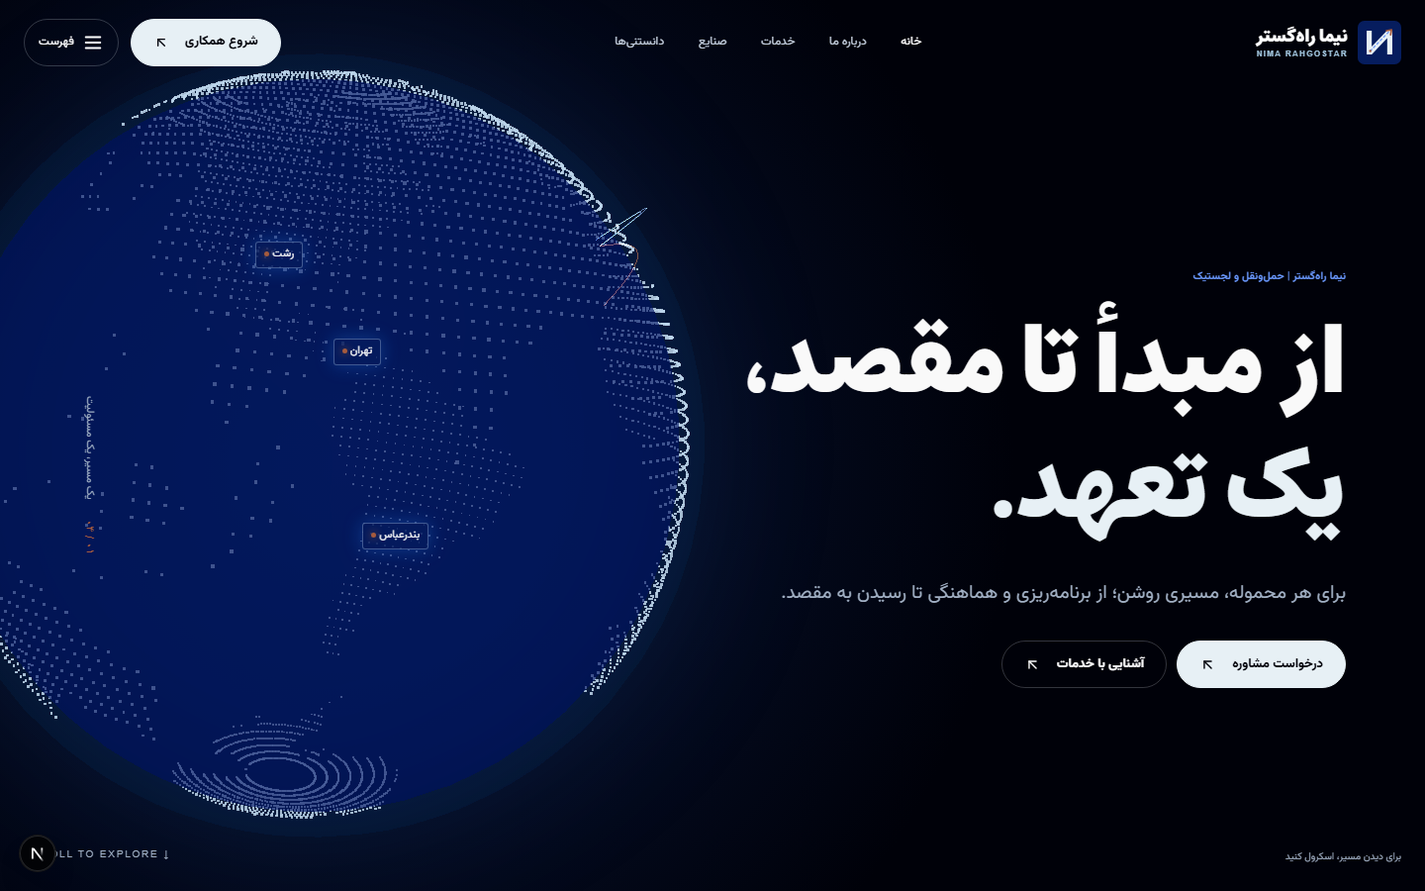
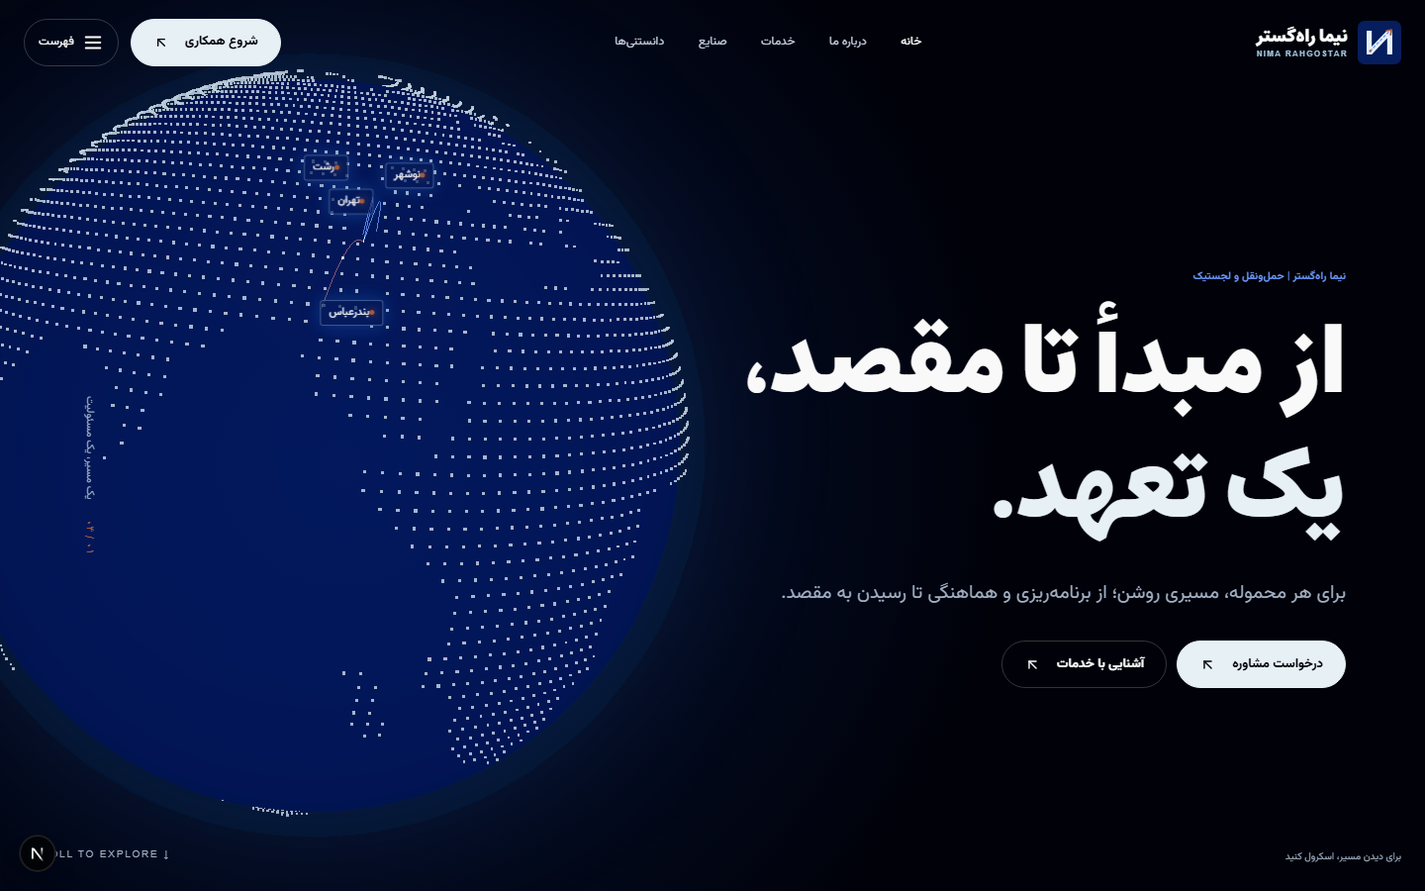
feat: project globe labels and add motion QA controls
Project city labels from globe coordinates and hide those behind the sphere. Add development-only journey progress, scene, trigger and frame-rate controls for checkpoint inspection. Verify the WebGL fallback and HUD in desktop and mobile browsers, refresh captures, and update the handoff with remaining visual gates.

diff --git a/src/components/globe/GlobeScene.tsx b/src/components/globe/GlobeScene.tsx
@@ -1,26 +1,77 @@
 "use client";
 import { Canvas, useFrame } from "@react-three/fiber";
-import { useEffect, useMemo, useRef, useState } from "react";
+import { useEffect, useMemo, useRef, useState, type RefObject } from "react";
 import { AdditiveBlending, BufferAttribute, BufferGeometry, Color, Group, Line, LineBasicMaterial, Vector3 } from "three";
 import landPoints from "@/content/globe-points.json";
 import { globeCities } from "@/content/cities";
 import styles from "./GlobeScene.module.css";
+const LABEL_OFFSETS=[[-18,-18],[30,20],[-58,-40],[42,-36]] as const;
 
-function vector(lat:number,lon:number,r:number){const a=lat*Math.PI/180,b=lon*Math.PI/180;return new Vector3(r*Math.cos(a)*Math.cos(b),r*Math.sin(a),r*Math.cos(a)*Math.sin(b))}
+function vector(lat:number,lon:number,r:number){
+  const a=lat*Math.PI/180,b=lon*Math.PI/180;
+  return new Vector3(r*Math.cos(a)*Math.cos(b),r*Math.sin(a),r*Math.cos(a)*Math.sin(b));
+}
 function DottedEarth(){
-  const points=useMemo(()=>{
-    const coords:number[]=[];const mobile=typeof window!=="undefined"&&window.innerWidth<768;
-    landPoints.forEach(([lat,lon],index)=>{if(mobile&&index%2) return;const p=vector(lat,lon,2);coords.push(p.x,p.y,p.z)});
-    const geometry=new BufferGeometry();geometry.setAttribute("position",new BufferAttribute(new Float32Array(coords),3));return geometry;
+  const geometry=useMemo(()=>{
+    const coords:number[]=[];
+    const mobile=window.innerWidth<768;
+    landPoints.forEach(([lat,lon],index)=>{if(mobile&&index%2)return;const point=vector(lat,lon,2);coords.push(point.x,point.y,point.z)});
+    const result=new BufferGeometry();result.setAttribute("position",new BufferAttribute(new Float32Array(coords),3));return result;
   },[]);
-  useEffect(()=>()=>points.dispose(),[points]);
-  return <points geometry={points}><pointsMaterial size={0.027} sizeAttenuation color="#a8c9ef" transparent opacity={0.88} depthWrite={false}/></points>
+  useEffect(()=>()=>geometry.dispose(),[geometry]);
+  return <points geometry={geometry}><pointsMaterial size={.027} sizeAttenuation color="#a8c9ef" transparent opacity={.88} depthWrite={false}/></points>;
 }
 function TradeArc({to,index}:{to:{lat:number;lon:number};index:number}){
-  const geometry=useMemo(()=>{const a=vector(35.6892,51.389,2.02),b=vector(to.lat,to.lon,2.02),coords:number[]=[];for(let i=0;i<=64;i++){const t=i/64;const p=a.clone().lerp(b,t).normalize().multiplyScalar(2.03+Math.sin(t*Math.PI)*(0.18+index*.04));coords.push(p.x,p.y,p.z)}const g=new BufferGeometry();g.setAttribute("position",new BufferAttribute(new Float32Array(coords),3));return g},[to,index]);
+  const geometry=useMemo(()=>{
+    const from=vector(35.6892,51.389,2.02),end=vector(to.lat,to.lon,2.02),coords:number[]=[];
+    for(let i=0;i<=64;i++){const t=i/64;const point=from.clone().lerp(end,t).normalize().multiplyScalar(2.03+Math.sin(t*Math.PI)*(.18+index*.04));coords.push(point.x,point.y,point.z)}
+    const result=new BufferGeometry();result.setAttribute("position",new BufferAttribute(new Float32Array(coords),3));return result;
+  },[to,index]);
   const line=useMemo(()=>new Line(geometry,new LineBasicMaterial({color:index===0?"#ad6647":"#6896fa",transparent:true,opacity:.7,blending:AdditiveBlending})),[geometry,index]);
-  useEffect(()=>()=>{geometry.dispose();(line.material as LineBasicMaterial).dispose()},[geometry,line]);return <primitive object={line}/>;
+  useEffect(()=>()=>{geometry.dispose();(line.material as LineBasicMaterial).dispose()},[geometry,line]);
+  return <primitive object={line}/>;
 }
-function GlobeObject(){const root=useRef<Group>(null);const active=useRef(true);const pointer=useRef({x:0,y:0});const angle=useRef(0);useEffect(()=>{const visibility=()=>active.current=!document.hidden;const move=(event:PointerEvent)=>{if(event.pointerType==="touch")return;pointer.current.x=(event.clientX/window.innerWidth-.5)*.1;pointer.current.y=(event.clientY/window.innerHeight-.5)*.08};document.addEventListener("visibilitychange",visibility);window.addEventListener("pointermove",move,{passive:true});return()=>{document.removeEventListener("visibilitychange",visibility);window.removeEventListener("pointermove",move)}},[]);useFrame((_,delta)=>{if(!root.current||!active.current)return;angle.current+=Math.min(delta,.05)*.055;root.current.rotation.y=angle.current+pointer.current.x;root.current.rotation.x=.16+pointer.current.y});return <group ref={root} rotation={[.16,-.1,-.1]}><mesh><sphereGeometry args={[1.96,48,32]}/><meshBasicMaterial color={new Color("#061d5e")} transparent opacity={.62}/></mesh><mesh><sphereGeometry args={[2.08,48,32]}/><meshBasicMaterial color="#28589e" transparent opacity={.09} blending={AdditiveBlending} depthWrite={false}/></mesh><DottedEarth/>{globeCities.slice(1).map((city,i)=><TradeArc key={city.name} to={city} index={i}/>)}</group>}
-export function GlobeScene(){const [supported,setSupported]=useState(false);useEffect(()=>{try{const c=document.createElement("canvas");setSupported(Boolean(c.getContext("webgl2")||c.getContext("webgl")))}catch{setSupported(false)}},[]);if(!supported)return <GlobeFallback/>;return <div className={styles.wrap} aria-label="کره سهبعدی نمایشی با مسیرهای تهران، بندرعباس، رشت و نوشهر" role="img"><Canvas camera={{position:[0,0,5.9],fov:50}} dpr={[1,1.75]} gl={{alpha:true,antialias:false,powerPreference:"low-power"}} onCreated={({gl})=>{gl.domElement.addEventListener("webglcontextlost",()=>setSupported(false),{once:true})}}><ambientLight intensity={.7}/><GlobeObject/></Canvas><div className={styles.labels}><span>تهران <i/></span><span>بندرعباس <i/></span><span>رشت <i/></span></div></div>}
+function GlobeObject({labelRefs}:{labelRefs:RefObject<(HTMLSpanElement|null)[]>}){
+  const root=useRef<Group>(null),active=useRef(true),pointer=useRef({x:0,y:0}),angle=useRef(-.7);
+  const mobile=window.innerWidth<768;
+  const labelPoints=useMemo(()=>globeCities.slice(0,mobile?2:4).map(city=>vector(city.lat,city.lon,2.18)),[mobile]);
+  useEffect(()=>{
+    const visibility=()=>active.current=!document.hidden;
+    const move=(event:PointerEvent)=>{if(event.pointerType==="touch")return;pointer.current.x=(event.clientX/window.innerWidth-.5)*.1;pointer.current.y=(event.clientY/window.innerHeight-.5)*.08};
+    document.addEventListener("visibilitychange",visibility);window.addEventListener("pointermove",move,{passive:true});
+    return()=>{document.removeEventListener("visibilitychange",visibility);window.removeEventListener("pointermove",move)};
+  },[]);
+  useFrame(({camera,size},delta)=>{
+    if(!root.current||!active.current)return;
+    angle.current+=Math.min(delta,.05)*.055;
+    root.current.rotation.y=angle.current+pointer.current.x;
+    root.current.rotation.x=.16+pointer.current.y;
+    root.current.updateMatrixWorld();
+    const cameraPosition=camera.getWorldPosition(new Vector3());
+    labelPoints.forEach((point,index)=>{
+      const label=labelRefs.current[index];if(!label)return;
+      const worldPoint=point.clone().applyMatrix4(root.current!.matrixWorld);
+      const front=worldPoint.clone().normalize().dot(cameraPosition.clone().sub(worldPoint))>0;
+      label.style.visibility=front?"visible":"hidden";
+      if(!front)return;
+      const projected=worldPoint.project(camera);
+      label.style.transform=`translate3d(${(projected.x*.5+.5)*size.width+LABEL_OFFSETS[index][0]}px,${(-projected.y*.5+.5)*size.height+LABEL_OFFSETS[index][1]}px,0) translate(-50%,-50%)`;
+    });
+  });
+  return <group ref={root} rotation={[.16,-.7,-.1]}>
+    <mesh><sphereGeometry args={[1.96,48,32]}/><meshBasicMaterial color={new Color("#061d5e")} transparent opacity={.62}/></mesh>
+    <mesh><sphereGeometry args={[2.08,48,32]}/><meshBasicMaterial color="#28589e" transparent opacity={.09} blending={AdditiveBlending} depthWrite={false}/></mesh>
+    <DottedEarth/>{globeCities.slice(1).map((city,index)=><TradeArc key={city.name} to={city} index={index}/>)}
+  </group>;
+}
+export function GlobeScene(){
+  const [supported,setSupported]=useState(false),labelRefs=useRef<(HTMLSpanElement|null)[]>([]);
+  const mobile=typeof window!=="undefined"&&window.innerWidth<768;
+  useEffect(()=>{try{const canvas=document.createElement("canvas");setSupported(Boolean(canvas.getContext("webgl2")||canvas.getContext("webgl")))}catch{setSupported(false)}},[]);
+  if(!supported)return <GlobeFallback/>;
+  return <div className={styles.wrap} aria-label="کره سهبعدی نمایشی با مسیرهای تهران، بندرعباس، رشت و نوشهر" role="img">
+    <Canvas camera={{position:[0,0,5.9],fov:50}} dpr={[1,1.75]} gl={{alpha:true,antialias:false,powerPreference:"low-power"}} onCreated={({gl})=>{gl.domElement.addEventListener("webglcontextlost",()=>setSupported(false),{once:true})}}><ambientLight intensity={.7}/><GlobeObject labelRefs={labelRefs}/></Canvas>
+    <div className={`${styles.labels} ${styles.projected}`}>{globeCities.slice(0,mobile?2:4).map((city,index)=><span key={city.name} ref={element=>{labelRefs.current[index]=element}}><i/>{city.name}</span>)}</div>
+  </div>;
+}
 export function GlobeFallback(){return <div className={`${styles.wrap} ${styles.fallback}`} role="img" aria-label="تصویر جایگزین کره زمین و مسیرهای حمل"><div className={styles.fallbackOrb}/><div className={styles.labels}><span>تهران <i/></span><span>بندرعباس <i/></span><span>رشت <i/></span></div></div>}

diff --git a/src/components/journey/FreightJourney.tsx b/src/components/journey/FreightJourney.tsx
@@ -5,6 +5,7 @@ import gsap from "gsap";
 import { ScrollTrigger } from "gsap/ScrollTrigger";
 import { useGSAP } from "@gsap/react";
 import styles from "./FreightJourney.module.css";
+import { MotionDebugHUD } from "./MotionDebugHUD";
 gsap.registerPlugin(ScrollTrigger,useGSAP);
 
 const beats=[
@@ -52,5 +53,5 @@ export function FreightJourney(){
       return()=>{delete window.__journeyDebug;trigger.kill();tl.kill()};
     });return()=>mm.revert();
   },{scope:root});
-  return <><section ref={root} className={styles.stage} aria-label="سفر محموله از انبار تا مقصد" data-scene="warehouse"><StageArt/><div className={styles.top}><span>سفر یک محموله</span><span dir="ltr">NIMA / FREIGHT JOURNEY</span></div><div className={styles.caption} aria-live="polite"><span>۰{Math.min(beat+1,5)} / ۰۵</span><h2 key={beat}>{beats[beat].label}</h2><p>{beats[beat].detail}</p></div><div className={styles.progress}><span/></div><div className={styles.scrollHint}>برای ادامه اسکرول کنید ↓</div>{beat===4&&<Link className={`btn btn-primary ${styles.endCta}`} href="/contact">درخواست مشاوره ↗</Link>}</section><section className={styles.storyboard} aria-label="مراحل حملونقل">{beats.slice(0,4).map((b,i)=><article key={b.label}><span>۰{i+1}</span><h2>{b.label}</h2><p>{b.detail}</p></article>)}</section></>;
+  return <><section ref={root} className={styles.stage} aria-label="سفر محموله از انبار تا مقصد" data-scene="warehouse"><StageArt/><div className={styles.top}><span>سفر یک محموله</span><span dir="ltr">NIMA / FREIGHT JOURNEY</span></div><div className={styles.caption} aria-live="polite"><span>۰{Math.min(beat+1,5)} / ۰۵</span><h2 key={beat}>{beats[beat].label}</h2><p>{beats[beat].detail}</p></div><div className={styles.progress}><span/></div><div className={styles.scrollHint}>برای ادامه اسکرول کنید ↓</div>{beat===4&&<Link className={`btn btn-primary ${styles.endCta}`} href="/contact">درخواست مشاوره ↗</Link>}</section><section className={styles.storyboard} aria-label="مراحل حملونقل">{beats.slice(0,4).map((b,i)=><article key={b.label}><span>۰{i+1}</span><h2>{b.label}</h2><p>{b.detail}</p></article>)}</section><MotionDebugHUD/></>;
 }

diff --git a/src/components/journey/MotionDebugHUD.tsx b/src/components/journey/MotionDebugHUD.tsx
@@ -1,0 +1,22 @@
+"use client";
+import { useEffect, useState } from "react";
+import { ScrollTrigger } from "gsap/ScrollTrigger";
+import styles from "./MotionDebugHUD.module.css";
+
+type Reading={progress:number;scene:string;fps:number;triggers:number;viewport:string;reduced:boolean};
+export function MotionDebugHUD(){
+  const [enabled,setEnabled]=useState(false),[paused,setPaused]=useState(false);
+  const [reading,setReading]=useState<Reading>({progress:0,scene:"warehouse",fps:0,triggers:0,viewport:"",reduced:false});
+  useEffect(()=>{if(process.env.NODE_ENV!=="production"&&new URLSearchParams(location.search).get("motionDebug")==="1")setEnabled(true)},[]);
+  useEffect(()=>{
+    if(!enabled)return;
+    let frames=0,fps=0,last=performance.now(),id=0;
+    const frame=(now:number)=>{frames++;if(now-last>=1000){fps=Math.round(frames*1000/(now-last));frames=0;last=now}id=requestAnimationFrame(frame)};
+    id=requestAnimationFrame(frame);
+    const timer=window.setInterval(()=>setReading({progress:window.__journeyDebug?.getProgress()??0,scene:document.querySelector<HTMLElement>("[data-scene]")?.dataset.scene??"unknown",fps,triggers:ScrollTrigger.getAll().length,viewport:window.innerWidth<768?"mobile":"desktop",reduced:matchMedia("(prefers-reduced-motion: reduce)").matches}),120);
+    return()=>{cancelAnimationFrame(id);clearInterval(timer)};
+  },[enabled]);
+  if(!enabled)return null;
+  const toggle=()=>{const trigger=ScrollTrigger.getById("freight-journey");if(!trigger)return;if(paused){trigger.enable();setPaused(false)}else{trigger.disable(false);setPaused(true)}};
+  return <aside className={styles.hud} aria-label="ابزار بررسی حرکت"><strong>Motion QA</strong><div>p {reading.progress.toFixed(3)} · {reading.scene}</div><div>{reading.viewport} · {reading.fps} fps · {reading.triggers} triggers</div><div>reduced: {reading.reduced?"yes":"no"}</div><div>active: {reading.scene==="road"?"truck,cargo":reading.scene==="port"?"crane,cargo":reading.scene==="ocean"?"ship,cargo":reading.scene==="air"?"plane,clouds":"forklift,cargo"}</div><button onClick={toggle}>{paused?"resume":"pause"}</button></aside>;
+}

diff --git a/src/components/globe/GlobeScene.module.css b/src/components/globe/GlobeScene.module.css
@@ -1,2 +1,3 @@
 .wrap{position:absolute;width:min(74vw,980px);aspect-ratio:1;inset-inline-end:-12%;top:50%;transform:translateY(-50%);pointer-events:none;filter:drop-shadow(0 0 70px #2052ae44)}.wrap canvas{touch-action:pan-y}.labels{position:absolute;inset:0;font-size:11px;pointer-events:none}.labels span{position:absolute;background:#061d5eae;border:1px solid #86a5d177;border-radius:3px;padding:2px 8px;white-space:nowrap;box-shadow:0 0 18px #226ed666}.labels span:nth-child(1){top:39%;left:52%}.labels span:nth-child(2){top:58%;left:55%}.labels span:nth-child(3){top:29%;left:44%}.labels i{display:inline-block;width:5px;height:5px;border-radius:50%;background:var(--signal);box-shadow:0 0 8px var(--signal)}.fallbackOrb{position:absolute;inset:7%;border-radius:50%;background:radial-gradient(circle at 38% 37%,#25538d55,#071d55 45%,#010714 70%),radial-gradient(circle,#96beef 1px,transparent 1.3px);background-size:auto,12px 12px;border:1px solid #8bb4e87a;box-shadow:inset -40px -20px 90px #000,0 0 60px #427bba50}.fallbackOrb:after{content:"";position:absolute;inset:22% -5%;border:1px solid #a96257;border-radius:50%;transform:rotate(-28deg)}@media(max-width:767px){.wrap{width:112vw;inset-inline-end:-18%;top:70%;opacity:.86}.labels span:nth-child(3){display:none}}
 @media(max-width:767px){.wrap{width:125vw;inset-inline-end:-14%;top:89%}}
+.projected span{top:0!important;left:0!important;visibility:hidden;will-change:transform}.projected span:nth-child(3){display:block}@media(max-width:767px){.projected span:nth-child(3){display:none}}

diff --git a/tests/e2e/visual.spec.ts b/tests/e2e/visual.spec.ts
@@ -22,3 +22,27 @@ test("contact visual checkpoint",async({page,isMobile})=>{
   await expect(page.locator("h1")).toBeVisible();
   await page.screenshot({path:`test-results/visual/contact-${isMobile?"mobile":"desktop"}.png`});
 });
+
+test("globe falls back when WebGL is unavailable",async({page})=>{
+  await page.addInitScript(()=>{
+    const getContext=HTMLCanvasElement.prototype.getContext;
+    HTMLCanvasElement.prototype.getContext=function(this:HTMLCanvasElement,type,...args){
+      if(type==="webgl"||type==="webgl2")return null;
+      return getContext.call(this,type,...args);
+    } as typeof getContext;
+  });
+  await page.goto("/");
+  await expect(page.getByRole("img",{name:/تصویر جایگزین کره زمین/})).toBeVisible();
+});
+
+test("development motion HUD reports journey progress",async({page})=>{
+  await page.goto("/?motionDebug=1");
+  const hud=page.getByLabel("ابزار بررسی حرکت");
+  await expect(hud).toBeVisible();
+  await page.evaluate(()=>window.__journeyDebug?.setProgress(.52));
+  await expect(hud).toContainText("port");
+  await expect(hud).toContainText("triggers");
+  await hud.getByRole("button",{name:"pause"}).click();
+  await expect(hud.getByRole("button",{name:"resume"})).toBeVisible();
+  await hud.getByRole("button",{name:"resume"}).click();
+});

diff --git a/src/components/journey/MotionDebugHUD.module.css b/src/components/journey/MotionDebugHUD.module.css
@@ -1,0 +1,1 @@
+.hud{position:fixed;z-index:80;bottom:60px;left:15px;direction:ltr;background:#020a19e8;border:1px solid #6896fa;color:#e7f0f5;padding:12px 14px;min-width:180px;font:11px/1.6 Consolas,monospace;box-shadow:0 10px 30px #0008}.hud strong{color:#6896fa}.hud button{margin-top:7px;background:#e7f0f5;color:#061d5e;border:0;padding:3px 12px;font:inherit}

diff --git a/HANDOFF.md b/HANDOFF.md
@@ -4,18 +4,19 @@
 
 ## Current state
 - **Status:** PARTIAL — runnable Persian RTL marketing demo; exact reference parity and studio-grade freight art are not achieved.
-- **Active task:** NONE. Next priority: `NR-020` visual QA and freight art refinement.
-- **Updated:** 2026-10-10 13:36 Asia/Tehran.
-- **Repository:** Local Git repository on `main`; initial feature commit `8cb6e09`. No remote or deployment exists.
+- **Active task:** None. The remaining quality gates below are open.
+- **Updated:** 2026-10-10 13:45 Asia/Tehran.
+- **Repository:** Local Git repository on `main`; no remote or deployment exists.
 - **Stack:** Next.js 15 App Router, React 19, strict TypeScript, pnpm 11, GSAP ScrollTrigger, R3F/Three.js, Tailwind v4 and CSS Modules.
 - **Scope:** Marketing demo only. Inquiry data stays in memory in the browser; no network submission or storage.
 
 ## What changed
 - Built all declared routes, Persian content models, responsive header/menu, footer, route reveal, legal pages and 404.
 - Copied the supplied original logo to `public/brand/nima-monogram.svg`; added bundled Estedad/Vazirmatn fonts and brand tokens.
-- Added a real dotted R3F globe using 4,920 precomputed Natural Earth land points, route arcs, pointer movement and CSS fallback. Precomputation removed a browser interaction stall.
+- Added a real dotted R3F globe using 4,920 precomputed Natural Earth land points, route arcs, pointer movement, back-face-hidden projected city labels and CSS fallback. Precomputation removed a browser interaction stall.
 - Built a pinned GSAP journey with one shared marked cargo unit, forklift, truck, crane, ship, abbreviated port-to-air transfer, plane and reverse scroll. Mobile uses separate timing and crop values. Reduced motion shows four readable stages.
 - Built service/industry/insight/career/community pages, six sample articles, interactive filters/gallery, and a local-only Iranian inquiry form with validation and modal.
+- Added a development-only `?motionDebug=1` HUD for scene/progress/FPS/trigger inspection and pause/resume.
 - Saved reviewed desktop 1440×900 and mobile 390×844 home, port and contact captures under `docs/screenshots/`.
 
 ## Decisions
@@ -32,7 +33,7 @@
 | NR-001 | DONE | local Git repo, pnpm install, strict TS, lint, build and test scaffold |
 | NR-002 | DONE | supplied logo, fonts and palette in all routes |
 | NR-003 | DONE | navigation, focus-trapped menu, route reveal and footer browser-tested |
-| NR-004 | UNVERIFIED | 3D globe visible; projected labels, route occlusion and failure-mode audit remain |
+| NR-004 | UNVERIFIED | 3D globe, projected labels and no-WebGL fallback browser-tested; scroll response, arc occlusion and performance remain |
 | NR-005 | UNVERIFIED | forklift and cargo animate; physical contact/occlusion needs full checkpoint review |
 | NR-006 | UNVERIFIED | truck, wheels and road animate; path tangent/bank fidelity remains |
 | NR-007 | UNVERIFIED | crane, spreader and marked cargo visible at .52; all pickup frames need review |
@@ -48,8 +49,8 @@
 | NR-017 | DONE | validation, demo-only dialog and no-POST browser test passed |
 | NR-018 | DONE | 4 clearly illustrative offices, privacy, terms and 404 |
 | NR-019 | UNVERIFIED | axe/reduced-motion checks pass; perf targets and WebGL failure need measurement |
-| NR-020 | UNVERIFIED | 6 captures reviewed; full checkpoint/route matrix and reference parity remain |
-| NR-021 | DONE | lint, TS, unit, build and 34 desktop/mobile E2E checks pass |
+| NR-020 | UNVERIFIED | 6 captures reviewed and development HUD works; full checkpoint/route matrix and reference parity remain |
+| NR-021 | DONE | lint, TS, unit, build and 38 desktop/mobile E2E checks pass |
 | NR-022 | DONE | README, asset register, motion notes and this handoff are current |
 
 ## Verification
@@ -57,7 +58,7 @@
 - `pnpm lint` — PASS; local `tsc --noEmit` — PASS.
 - `pnpm test` — PASS, 3 unit checks for Iranian phone/form validation.
 - `pnpm build` — PASS, 21 static routes/pages generated.
-- `pnpm test:e2e --reporter=line` — PASS, 34 checks across desktop Chromium and iPhone-sized mobile WebKit; includes routes, menu, form/no POST, reverse scene labels, axe and reduced motion.
+- `pnpm test:e2e --reporter=line` — PASS, 38 checks across desktop Chromium and iPhone-sized mobile WebKit; includes routes, menu, form/no POST, reverse scene labels, axe, reduced motion, no-WebGL fallback and the development HUD.
 - Browser captures reviewed at 1440×900 desktop and 390×844 mobile: home, port `.52`, contact first view. See `docs/VISUAL_QA.md`.
 - Windows sandbox initially blocked Next/Vitest/Playwright worker spawn (`EPERM`); the same checks passed outside the sandbox.
 
@@ -65,12 +66,12 @@
 - **B-001 open:** Studio-grade original/licensed truck, crane, ship and plane art has not been produced. Procedural SVG is functional but below the specified cinematic fidelity.
 - **B-002 open:** Precise original CSS/keyframes were not instrumented. Do not claim pixel or source parity.
 - **B-003 open:** Real addresses, contacts, services and business claims were not supplied; demo labels must remain.
-- **B-004 open:** Physical-device touch, performance budgets, WebGL failure and complete 12-checkpoint visual matrix are unverified.
+- **B-004 open:** Physical-device touch, performance budgets and complete 12-checkpoint visual matrix are unverified. No-WebGL fallback passed in automated browsers.
 
 ## Next steps
-1. Run `pnpm dev` and review `window.__journeyDebug.setProgress(p)` at `.02,.11,.19,.26,.35,.43,.52,.61,.69,.79,.89,.97` in both 1440×900 and 390×844; log mismatches in `docs/VISUAL_QA.md`.
+1. Run `pnpm dev` with `?motionDebug=1` and review `window.__journeyDebug.setProgress(p)` at `.02,.11,.19,.26,.35,.43,.52,.61,.69,.79,.89,.97` in both 1440×900 and 390×844; log mismatches in `docs/VISUAL_QA.md`.
 2. Replace procedural vehicle art with coherent original/licensed production layers while retaining the shared cargo timeline and provenance in `docs/ASSET_REGISTER.md`.
-3. Project globe city labels from 3D coordinates and test WebGL failure, physical touch and measured performance.
+3. Test globe scroll response, physical touch and measured performance.
 4. Obtain verified company details before changing demo disclosures, search indexing or deployment.
 
 ## Important files

diff --git a/docs/VISUAL_QA.md b/docs/VISUAL_QA.md
@@ -7,8 +7,10 @@ Reviewed browser captures are in [`screenshots/`](screenshots/): first views for
 | Mobile header CTA covered the brand and contact desktop grid stayed split on mobile | High | Fixed and recaptured |
 | Client-side globe dot generation stalled the first interaction | High | Fixed by precomputing 4,920 land points; interaction tests pass |
 | Procedural freight art lacks the intended studio-grade realism | High | Open; original or licensed production assets needed |
-| Globe city labels are screen overlays rather than projected/occluded 3D labels | Medium | Open |
+| Globe city labels used fixed screen positions | Medium | Fixed; now projected from city coordinates and hidden on the far side in desktop/mobile captures |
 | Mobile truck cab is partially cropped during the port close-up | Medium | Open; framing choice needs art review |
 | Full 12-checkpoint visual matrix, modal view, all inner-page footers and exact reference parity | Medium | Not yet inspected |
+
+The no-WebGL fallback and development motion HUD were also exercised in desktop Chromium and mobile WebKit. The HUD is available in development at `/?motionDebug=1`.
 
 The reference was not instrumented in a live browser during this implementation. The supplied specification describes its composition and choreography; exact visual parity is unverified.
